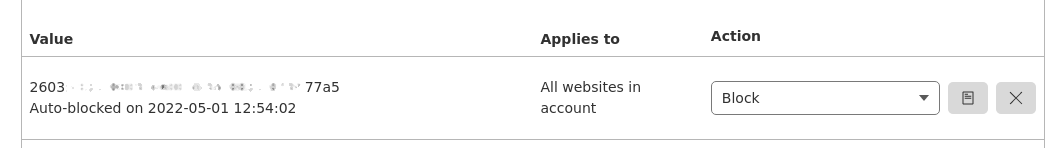
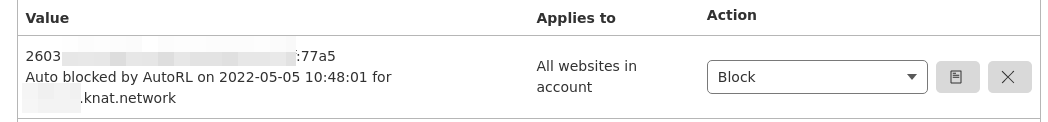
Now supports domain in alert message

diff --git a/autorl.py b/autorl.py
@@ -36,7 +36,7 @@ def get_existing_rules():
         rules += r.json()['result']
     return rules
 
-def add_ip_to_block_rule(ip_addr):
+def add_ip_to_block_rule(ip_addr, domain):
     path = "user/firewall/access_rules/rules"
     header = {
         "X-Auth-Email": CF_EMAIL,
@@ -49,7 +49,7 @@ def add_ip_to_block_rule(ip_addr):
             "target": "ip",
             "value": ip_addr
         },
-        "notes": "Auto blocked by AutoRL on " + datetime.datetime.now().strftime("%Y-%m-%d %H:%M:%S")
+        "notes": "Auto blocked by AutoRL on " + datetime.datetime.now().strftime("%Y-%m-%d %H:%M:%S") + " for " + domain
     }
     r = requests.post(prefix + path, headers=header, data=json.dumps(data))
     return r.json()
@@ -75,9 +75,11 @@ def parse_nginx_log(log_path):
     datetime_format = "%Y-%m-%dT%H:%M:%S+08:00"
 
     ip_addr_counter = {}
+    ip_domain_counter = {}
     for line in lines:
         ip_addr = line.rsplit(' ', 1)[1].strip().replace('"', '')
         log_datetime = datetime.datetime.strptime(line.split(' ')[1], datetime_format)
+        requested_domain = line.split(' ')[5].strip()
         if (datetime.datetime.now() - log_datetime).total_seconds() / 60 < INTERVAL_MIN:
             if "-" in ip_addr or ip_addr in IP_WHITE_LIST:
                 continue
@@ -86,17 +88,28 @@ def parse_nginx_log(log_path):
                     ip_addr_counter[ip_addr] = 1
                 else:
                     ip_addr_counter[ip_addr] += 1
-    print(ip_addr_counter)
-    return ip_addr_counter
+        
+        if ip_addr not in ip_domain_counter:
+            ip_domain_counter[ip_addr] = {}
+        if requested_domain not in ip_domain_counter[ip_addr]:
+            ip_domain_counter[ip_addr][requested_domain] = 1
+        else:
+            ip_domain_counter[ip_addr][requested_domain] += 1
+    return ip_addr_counter, ip_domain_counter
 
-def get_bad_ips(ip_addr_counter):
-    bad_ip = []
+def get_bad_ips(ip_addr_counter,ip_domain_counter):
+    bad_ip_list = []
     bad_ip_visit_count = []
+    bad_ip_visited_top_domain = []
     for ip_addr, count in ip_addr_counter.items():
         if count > RATE_PER_MINUTE:
-            bad_ip.append(ip_addr)
+            bad_ip_list.append(ip_addr)
             bad_ip_visit_count.append(count)
-    return bad_ip, bad_ip_visit_count
+
+            bad_ip_domain_list = ip_domain_counter[ip_addr]
+            bad_ip_visited_top_domain.append(max(bad_ip_domain_list, key=bad_ip_domain_list.get))
+
+    return bad_ip_list, bad_ip_visit_count, bad_ip_visited_top_domain
 
 def send_message_to_telegram(chat_id, text):
     url = "https://api.telegram.org/bot" + TG_BOT_TOKEN + "/sendMessage"
@@ -108,9 +121,9 @@ def send_message_to_telegram(chat_id, text):
     return r.json()
 
 if __name__ == '__main__':
-    ip_addr_counter = parse_nginx_log(ACCESS_LOG_PATH)
-    bad_ip, bad_ip_visit_count = get_bad_ips(ip_addr_counter)
-    for i in range(len(bad_ip)):
-        msg = "On Host: " + socket.gethostname() + ", with IP " + bad_ip[i] + " has accessed " + str(bad_ip_visit_count[i]) + " times in the last " + str(INTERVAL_MIN) + " minutes, now blocked."
-        add_ip_to_block_rule(bad_ip[i])
+    ip_addr_counter, ip_domain_counter = parse_nginx_log(ACCESS_LOG_PATH)
+    bad_ip_list, bad_ip_visit_count, bad_ip_visited_top_domain = get_bad_ips(ip_addr_counter,ip_domain_counter)
+    for i in range(len(bad_ip_list)):
+        msg = "On Host: " + socket.gethostname() + ", with IP " + bad_ip_list[i] + " has accessed domain " + str(bad_ip_visited_top_domain[i]) + " for " + str(bad_ip_visit_count[i]) + " times in the last " + str(INTERVAL_MIN) + " minutes, now blocked."
+        add_ip_to_block_rule(bad_ip_list[i], bad_ip_visited_top_domain[i])
         send_message_to_telegram(TG_CHAT_ID, msg)

diff --git a/README.md b/README.md
@@ -19,15 +19,15 @@ Since this is only a PoC, the following condition must be met to use AutoRL.
 * Nginx has the following log format (in `/etc/nginx/nginx.conf`)
 
     ```
-    log_format  main  '$remote_addr $time_iso8601 "$request" '
-                        '$status $body_bytes_sent "$http_referer" '
-                        '"$http_user_agent" "$http_x_forwarded_for"';
+    log_format  main  '$remote_addr $time_iso8601 "$request" $server_name '
+                      '$status $body_bytes_sent "$http_referer" '
+                      '"$http_user_agent" "$http_x_forwarded_for"';
     ```
     On this condition, the raw log should look like this:
     ```
-    172.70.211.101 2022-05-02T10:44:16+08:00 "GET /grafana/api/live/ws HTTP/1.1" 400 12 "-" "Mozilla/5.0 (X11; Linux x86_64) AppleWebKit/537.36 (KHTML, like Gecko) Chrome/103.0.5028.0 Safari/537.36" "145.xx.xx.xxx"
+    108.162.245.152 2022-05-05T10:14:19+08:00 "GET /grafana/api/live/ws HTTP/1.1" xxxx.yyyy.tld 400 12 "-" "Mozilla/5.0 (X11; Linux x86_64) AppleWebKit/537.36 (KHTML, like Gecko)" "145.xx.xxx.xxx"
     ```
-    Where, `172.70.211.101` is Cloudflare's IP, `2022-05-02T10:44:16+08:00` stands for request datetime and `"145.xx.xx.xxx"` is the real visitor IP.
+    Where, `108.162.245.152` is Cloudflare's IP,`xxxx.yyyy.tld` is the requested domain , `2022-05-02T10:44:16+08:00` stands for request datetime and `"145.xx.xx.xxx"` is the real visitor IP.
 
 
 ## Usage
